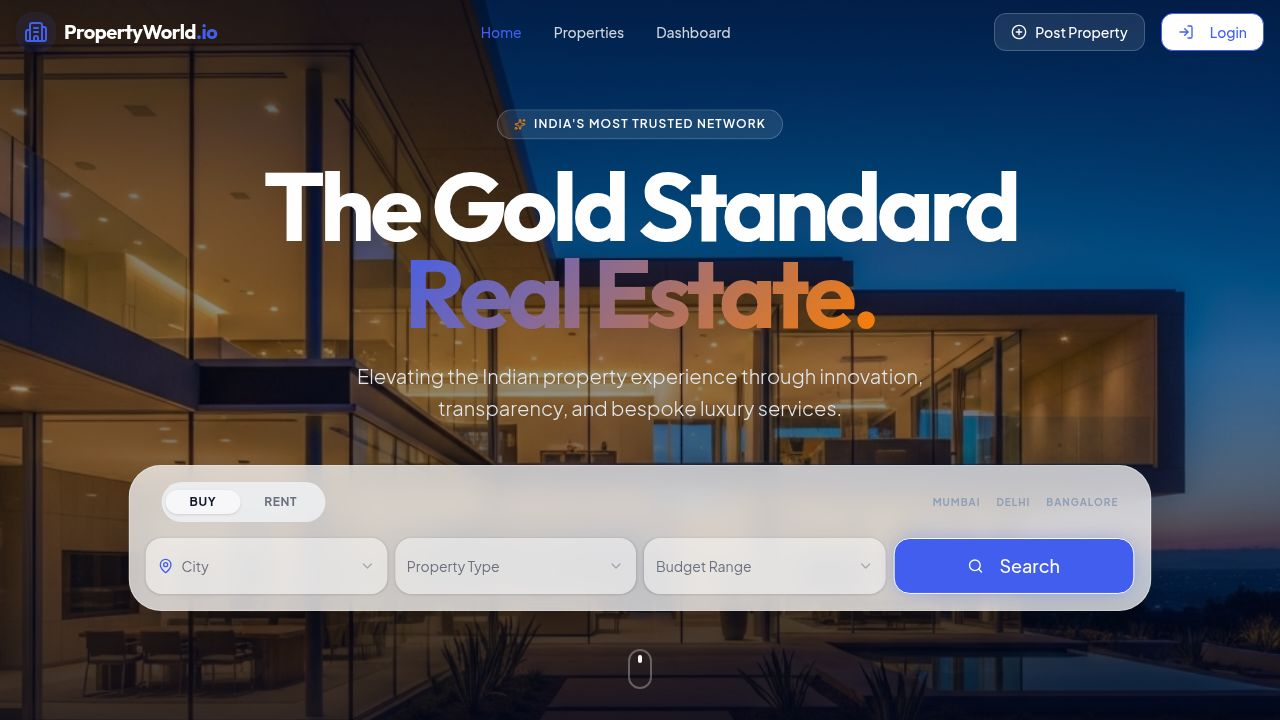
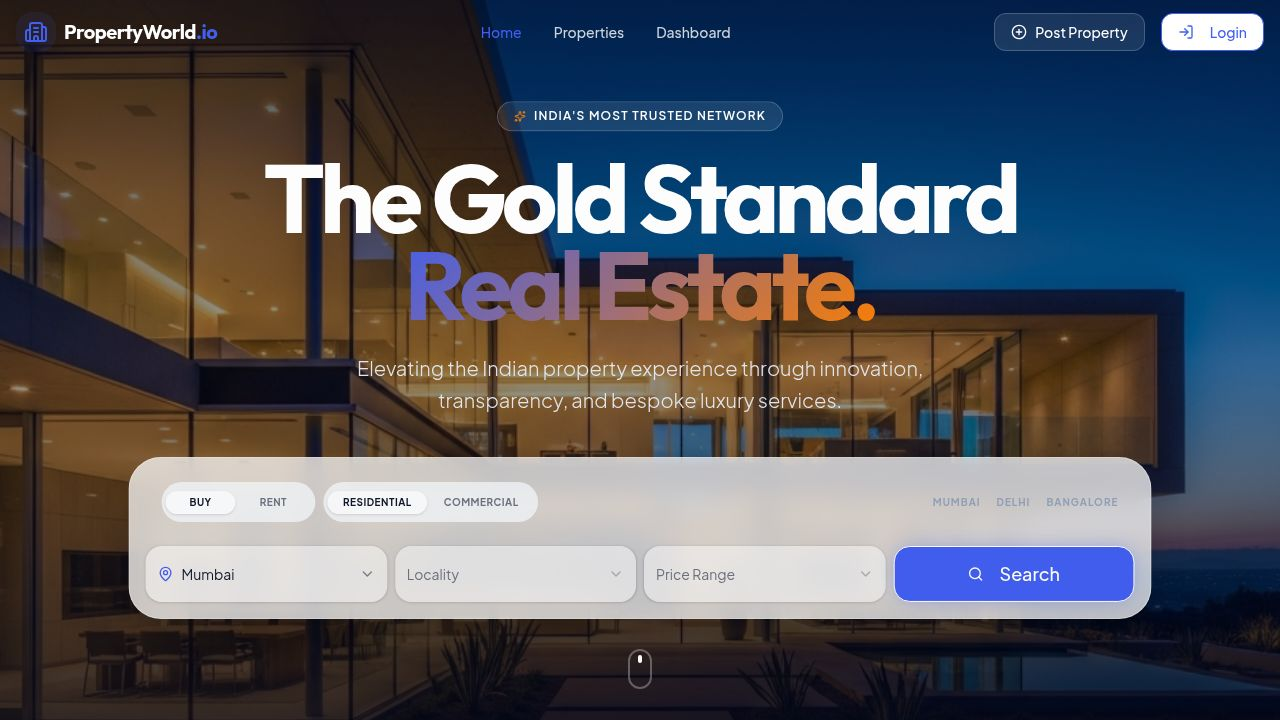
Add residential/commercial filters and a property suggestions slider
Update property card to require login for liking properties, and implement a carousel for suggested properties on the homepage.

Replit-Commit-Author: Agent
Replit-Commit-Session-Id: d9743974-a4d8-4416-a4aa-cee7bb8aaf44
Replit-Commit-Checkpoint-Type: full_checkpoint
Replit-Commit-Event-Id: 3aec84fb-1cf9-4d82-a52d-49db126151ba
Replit-Commit-Screenshot-Url: https://storage.googleapis.com/screenshot-production-us-central1/602777f0-31d2-44e8-a6ea-6efdfdba28c4/d9743974-a4d8-4416-a4aa-cee7bb8aaf44/xxVxHro
Replit-Helium-Checkpoint-Created: true

diff --git a/client/src/pages/home.tsx b/client/src/pages/home.tsx
@@ -11,8 +11,34 @@ import { Link } from "wouter";
 import { Card, CardContent } from "@/components/ui/card";
 import { cn } from "@/lib/utils";
 import { motion } from "framer-motion";
+import useEmblaCarousel from 'embla-carousel-react';
+import { useCallback, useState } from "react";
 
 export default function Home() {
+  const [emblaRef, emblaApi] = useEmblaCarousel({ loop: true, align: 'start', skipSnaps: false });
+  const [activeCity, setActiveCity] = useState("mum");
+
+  const scrollPrev = useCallback(() => emblaApi && emblaApi.scrollPrev(), [emblaApi]);
+  const scrollNext = useCallback(() => emblaApi && emblaApi.scrollNext(), [emblaApi]);
+
+  const localitiesByCity: Record<string, string[]> = {
+    mum: ["Worli", "Bandra West", "Juhu", "Powai", "Andheri East", "Colaba", "Lower Parel"],
+    del: ["Vasant Vihar", "Golf Links", "Greater Kailash", "DLF Phase 5", "Chanakyapuri"],
+    blr: ["Indiranagar", "Koramangala", "Whitefield", "Jayanagar", "HSR Layout"],
+    pun: ["Koregaon Park", "Baner", "Kalyani Nagar", "Hinjewadi"],
+    hyd: ["Banjara Hills", "Jubilee Hills", "Gachibowli", "HITEC City"],
+    che: ["Adyar", "Besant Nagar", "Anna Nagar", "Mylapore"],
+    goa: ["Anjuna", "Panjim", "Calangute", "Assagao"]
+  };
+
+  const suggestedProperties = [
+    { title: "1 BHK - Pune", price: "₹45 Lakh", image: "https://images.unsplash.com/photo-1518780664697-55e3ad937233?auto=format&fit=crop&q=80&w=400" },
+    { title: "Office - Bengaluru", price: "₹1.2 Cr", image: "https://images.unsplash.com/photo-1497366216548-37526070297c?auto=format&fit=crop&q=80&w=400" },
+    { title: "Villa - Goa", price: "₹2.5 Cr", image: "https://images.unsplash.com/photo-1580587771525-78b9dba3b914?auto=format&fit=crop&q=80&w=400" },
+    { title: "Penthouse - Mumbai", price: "₹12 Cr", image: "https://images.unsplash.com/photo-1512917774080-9991f1c4c750?auto=format&fit=crop&q=80&w=400" },
+    { title: "Studio - Hyderabad", price: "₹85 Lakh", image: "https://images.unsplash.com/photo-1536376074432-834fa5725800?auto=format&fit=crop&q=80&w=400" }
+  ];
+
   return (
     <div className="min-h-screen flex flex-col selection:bg-primary/20">
       <Navbar />
@@ -59,11 +85,21 @@ export default function Home() {
             className="max-w-5xl mx-auto glass p-2 rounded-[2rem] shadow-2xl overflow-hidden"
           >
             <Tabs defaultValue="buy" className="w-full">
-              <div className="flex justify-between items-center px-6 py-2">
-                <TabsList className="bg-slate-100/80 rounded-full h-10 p-1">
-                  <TabsTrigger value="buy" className="rounded-full px-6 text-xs uppercase font-bold tracking-wider">Buy</TabsTrigger>
-                  <TabsTrigger value="rent" className="rounded-full px-6 text-xs uppercase font-bold tracking-wider">Rent</TabsTrigger>
-                </TabsList>
+              <div className="flex flex-col md:flex-row justify-between items-center px-6 py-4 gap-4">
+                <div className="flex gap-2">
+                  <TabsList className="bg-slate-100/80 rounded-full h-10 p-1">
+                    <TabsTrigger value="buy" className="rounded-full px-6 text-[10px] uppercase font-bold tracking-wider">Buy</TabsTrigger>
+                    <TabsTrigger value="rent" className="rounded-full px-6 text-[10px] uppercase font-bold tracking-wider">Rent</TabsTrigger>
+                  </TabsList>
+                  
+                  <Tabs defaultValue="residential" className="w-auto">
+                    <TabsList className="bg-slate-100/80 rounded-full h-10 p-1">
+                      <TabsTrigger value="residential" className="rounded-full px-4 text-[10px] uppercase font-bold tracking-wider">Residential</TabsTrigger>
+                      <TabsTrigger value="commercial" className="rounded-full px-4 text-[10px] uppercase font-bold tracking-wider">Commercial</TabsTrigger>
+                    </TabsList>
+                  </Tabs>
+                </div>
+
                 <div className="hidden md:flex gap-4 text-[10px] uppercase font-bold tracking-widest text-slate-400">
                   <span>Mumbai</span>
                   <span>Delhi</span>
@@ -73,7 +109,7 @@ export default function Home() {
 
               <div className="grid grid-cols-1 md:grid-cols-4 gap-2 p-2">
                 <div className="md:col-span-1">
-                  <Select>
+                  <Select onValueChange={(val) => setActiveCity(val)} defaultValue="mum">
                     <SelectTrigger className="w-full h-14 bg-white/50 border-none rounded-2xl focus:ring-2 ring-primary/20">
                       <div className="flex items-center gap-2">
                         <MapPin className="h-4 w-4 text-primary" />
@@ -95,32 +131,31 @@ export default function Home() {
                 <div className="md:col-span-1">
                   <Select>
                     <SelectTrigger className="w-full h-14 bg-white/50 border-none rounded-2xl focus:ring-2 ring-primary/20">
-                      <SelectValue placeholder="Property Type" />
+                      <SelectValue placeholder="Locality" />
                     </SelectTrigger>
                     <SelectContent>
-                      <SelectItem value="apt">Apartment</SelectItem>
-                      <SelectItem value="villa">Villa</SelectItem>
-                      <SelectItem value="pent">Penthouse</SelectItem>
-                      <SelectItem value="land">Plot / Land</SelectItem>
-                      <SelectItem value="off">Office</SelectItem>
-                      <SelectItem value="shp">Shop</SelectItem>
+                      {localitiesByCity[activeCity]?.map(loc => (
+                        <SelectItem key={loc} value={loc.toLowerCase()}>{loc}</SelectItem>
+                      ))}
                     </SelectContent>
                   </Select>
                 </div>
 
-                <div className="md:col-span-1 text-left">
-                   <div className="flex gap-2 p-1">
-                    <Input 
-                      type="number" 
-                      placeholder="Min Sqft" 
-                      className="h-12 bg-white/50 border-none rounded-xl text-xs"
-                    />
-                    <Input 
-                      type="number" 
-                      placeholder="Max Sqft" 
-                      className="h-12 bg-white/50 border-none rounded-xl text-xs"
-                    />
-                   </div>
+                <div className="md:col-span-1">
+                   <Select>
+                    <SelectTrigger className="w-full h-14 bg-white/50 border-none rounded-2xl focus:ring-2 ring-primary/20">
+                      <SelectValue placeholder="Price Range" />
+                    </SelectTrigger>
+                    <SelectContent>
+                      <SelectItem value="under-50l">Under ₹50 Lakh</SelectItem>
+                      <SelectItem value="50-75l">₹50L - ₹75L</SelectItem>
+                      <SelectItem value="75l-1c">₹75L - ₹1 Cr</SelectItem>
+                      <SelectItem value="1-2c">₹1 Cr - ₹2 Cr</SelectItem>
+                      <SelectItem value="2-5c">₹2 Cr - ₹5 Cr</SelectItem>
+                      <SelectItem value="5-10c">₹5 Cr - ₹10 Cr</SelectItem>
+                      <SelectItem value="above-10c">Above ₹10 Cr</SelectItem>
+                    </SelectContent>
+                  </Select>
                 </div>
 
                 <div className="md:col-span-1">
@@ -249,7 +284,7 @@ export default function Home() {
               viewport={{ once: true }}
             >
               <h2 className="text-sm font-bold text-primary uppercase tracking-[0.3em] mb-4">Curated Selections</h2>
-              <h3 className="text-4xl font-bold text-slate-900">Premium <span className="text-gradient">Indian Estates.</span></h3>
+              <h3 className="text-4xl font-bold text-slate-900">Premium <span className="text-gradient">Properties.</span></h3>
             </motion.div>
             <Link 
               href="/listings" 
@@ -309,24 +344,36 @@ export default function Home() {
         </div>
       </section>
 
-      {/* Suggested Horizontal Scroll Integration */}
-      <section className="py-24 bg-slate-50">
+      {/* Suggested Properties Slider (Embla) */}
+      <section className="py-24 bg-slate-50 overflow-hidden">
         <div className="container mx-auto px-4">
-          <h3 className="text-2xl font-bold mb-8 font-display">Suggested Properties</h3>
-          <div className="flex overflow-x-auto gap-6 pb-8 scrollbar-hide">
-            {[
-              { title: "1 BHK - Pune", price: "₹45 Lakh", image: "https://images.unsplash.com/photo-1518780664697-55e3ad937233?auto=format&fit=crop&q=80&w=400" },
-              { title: "Office - Bengaluru", price: "₹1.2 Cr", image: "https://images.unsplash.com/photo-1497366216548-37526070297c?auto=format&fit=crop&q=80&w=400" },
-              { title: "Villa - Goa", price: "₹2.5 Cr", image: "https://images.unsplash.com/photo-1580587771525-78b9dba3b914?auto=format&fit=crop&q=80&w=400" }
-            ].map((p, i) => (
-              <div key={i} className="min-w-[300px] bg-white rounded-3xl p-6 shadow-sm border border-slate-100 hover:shadow-xl transition-all cursor-pointer group">
-                <div className="h-40 rounded-2xl overflow-hidden mb-4 bg-slate-200">
-                  <img src={p.image} className="w-full h-full object-cover group-hover:scale-110 transition-transform duration-500" />
+          <div className="flex justify-between items-center mb-12">
+            <h3 className="text-2xl font-bold font-display">Suggested Properties</h3>
+            <div className="flex gap-2">
+              <Button variant="outline" size="icon" className="rounded-full" onClick={scrollPrev}>
+                <ChevronLeft className="h-4 w-4" />
+              </Button>
+              <Button variant="outline" size="icon" className="rounded-full" onClick={scrollNext}>
+                <ChevronRight className="h-4 w-4" />
+              </Button>
+            </div>
+          </div>
+          
+          <div className="embla" ref={emblaRef}>
+            <div className="embla__container flex gap-6">
+              {suggestedProperties.map((p, i) => (
+                <div key={i} className="embla__slide min-w-[300px] md:min-w-[350px] bg-white rounded-[2.5rem] p-6 shadow-sm border border-slate-100 hover:shadow-xl transition-all cursor-pointer group flex-shrink-0">
+                  <div className="h-48 rounded-2xl overflow-hidden mb-6 bg-slate-200">
+                    <img src={p.image} className="w-full h-full object-cover group-hover:scale-110 transition-transform duration-700" />
+                  </div>
+                  <h4 className="font-bold text-xl text-slate-900 font-display">{p.title}</h4>
+                  <p className="text-primary font-bold text-xl mt-2">{p.price}</p>
+                  <Button variant="ghost" className="mt-6 w-full rounded-xl border border-slate-100 group-hover:bg-primary group-hover:text-white transition-all">
+                    View Details
+                  </Button>
                 </div>
-                <h4 className="font-bold text-slate-900">{p.title}</h4>
-                <p className="text-primary font-bold text-lg mt-1">{p.price}</p>
-              </div>
-            ))}
+              ))}
+            </div>
           </div>
         </div>
       </section>
@@ -366,3 +413,11 @@ export default function Home() {
     </div>
   );
 }
+
+const ChevronLeft = ({ className }: { className?: string }) => (
+  <svg xmlns="http://www.w3.org/2000/svg" width="24" height="24" viewBox="0 0 24 24" fill="none" stroke="currentColor" strokeWidth="2" strokeLinecap="round" strokeLinejoin="round" className={className}><path d="m15 18-6-6 6-6"/></svg>
+);
+
+const ChevronRight = ({ className }: { className?: string }) => (
+  <svg xmlns="http://www.w3.org/2000/svg" width="24" height="24" viewBox="0 0 24 24" fill="none" stroke="currentColor" strokeWidth="2" strokeLinecap="round" strokeLinejoin="round" className={className}><path d="m9 18 6-6-6-6"/></svg>
+);

diff --git a/client/src/components/property-card.tsx b/client/src/components/property-card.tsx
@@ -18,10 +18,16 @@ export function PropertyCard({ property }: PropertyCardProps) {
   const handleLike = (e: React.MouseEvent) => {
     e.preventDefault();
     e.stopPropagation();
-    setIsLiked(!isLiked);
+    
+    // Simulate Login Requirement
     toast({
-      title: isLiked ? "Removed from Wishlist" : "Added to Wishlist",
-      description: property.title,
+      title: "Login Required",
+      description: "Please sign in to save properties to your wishlist.",
+      action: (
+        <Link href="/auth">
+          <Button size="sm" className="bg-primary text-white">Login</Button>
+        </Link>
+      ),
     });
   };
 
